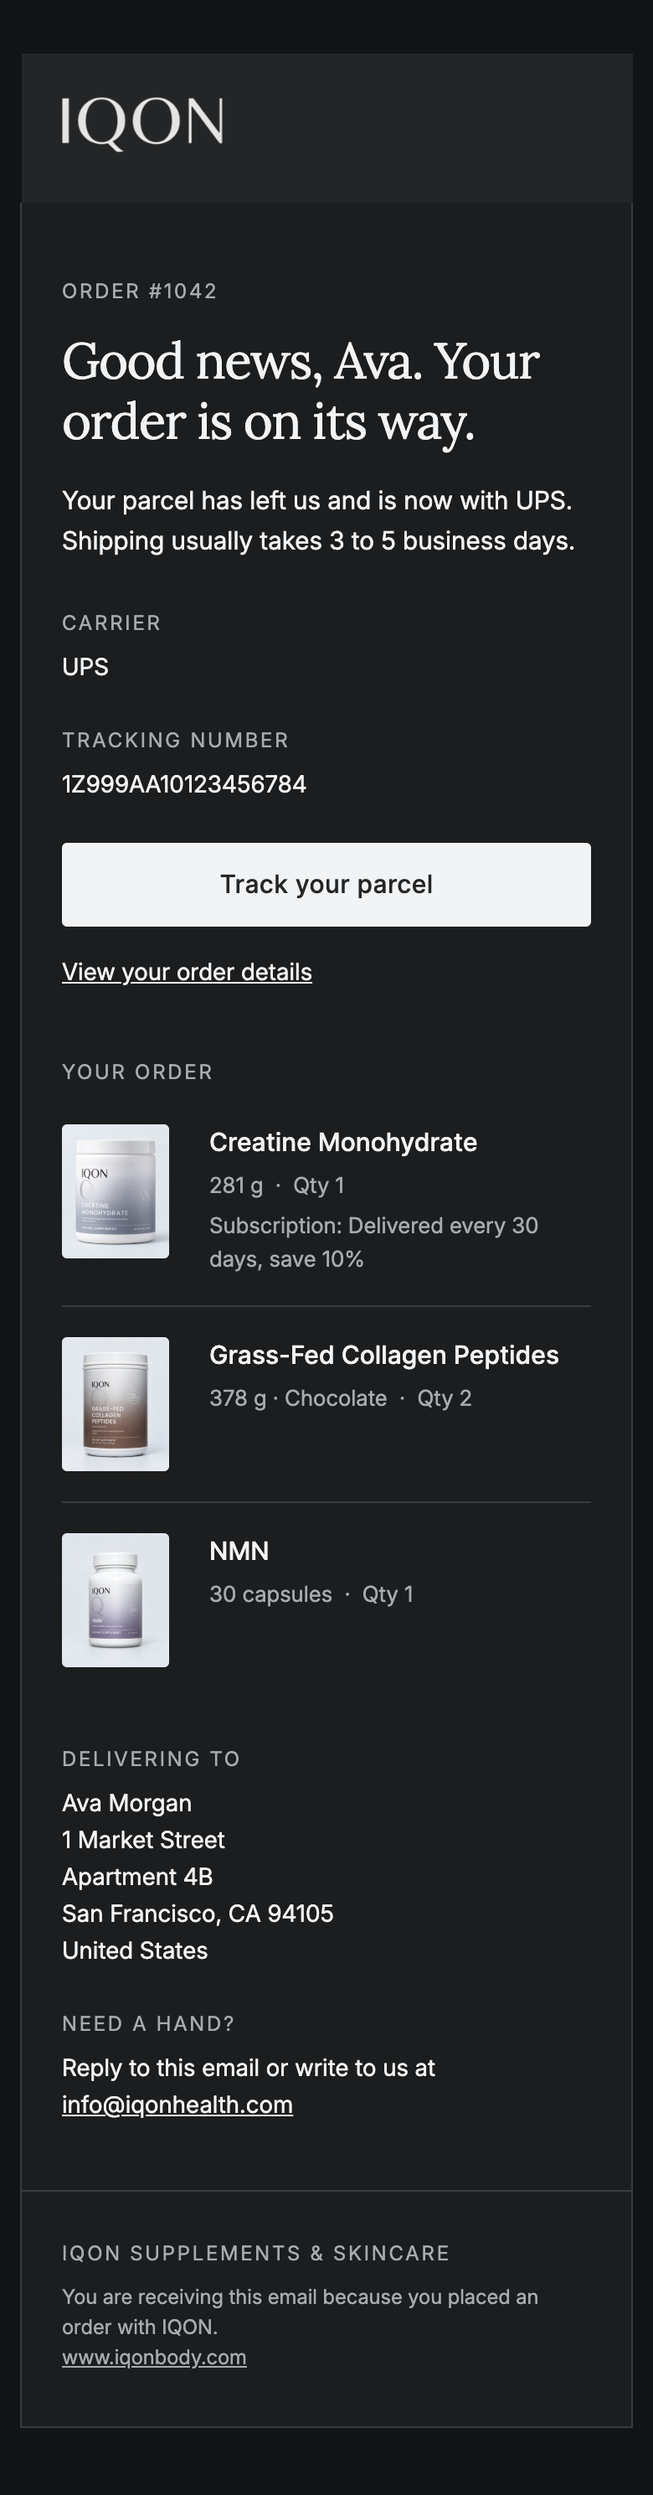
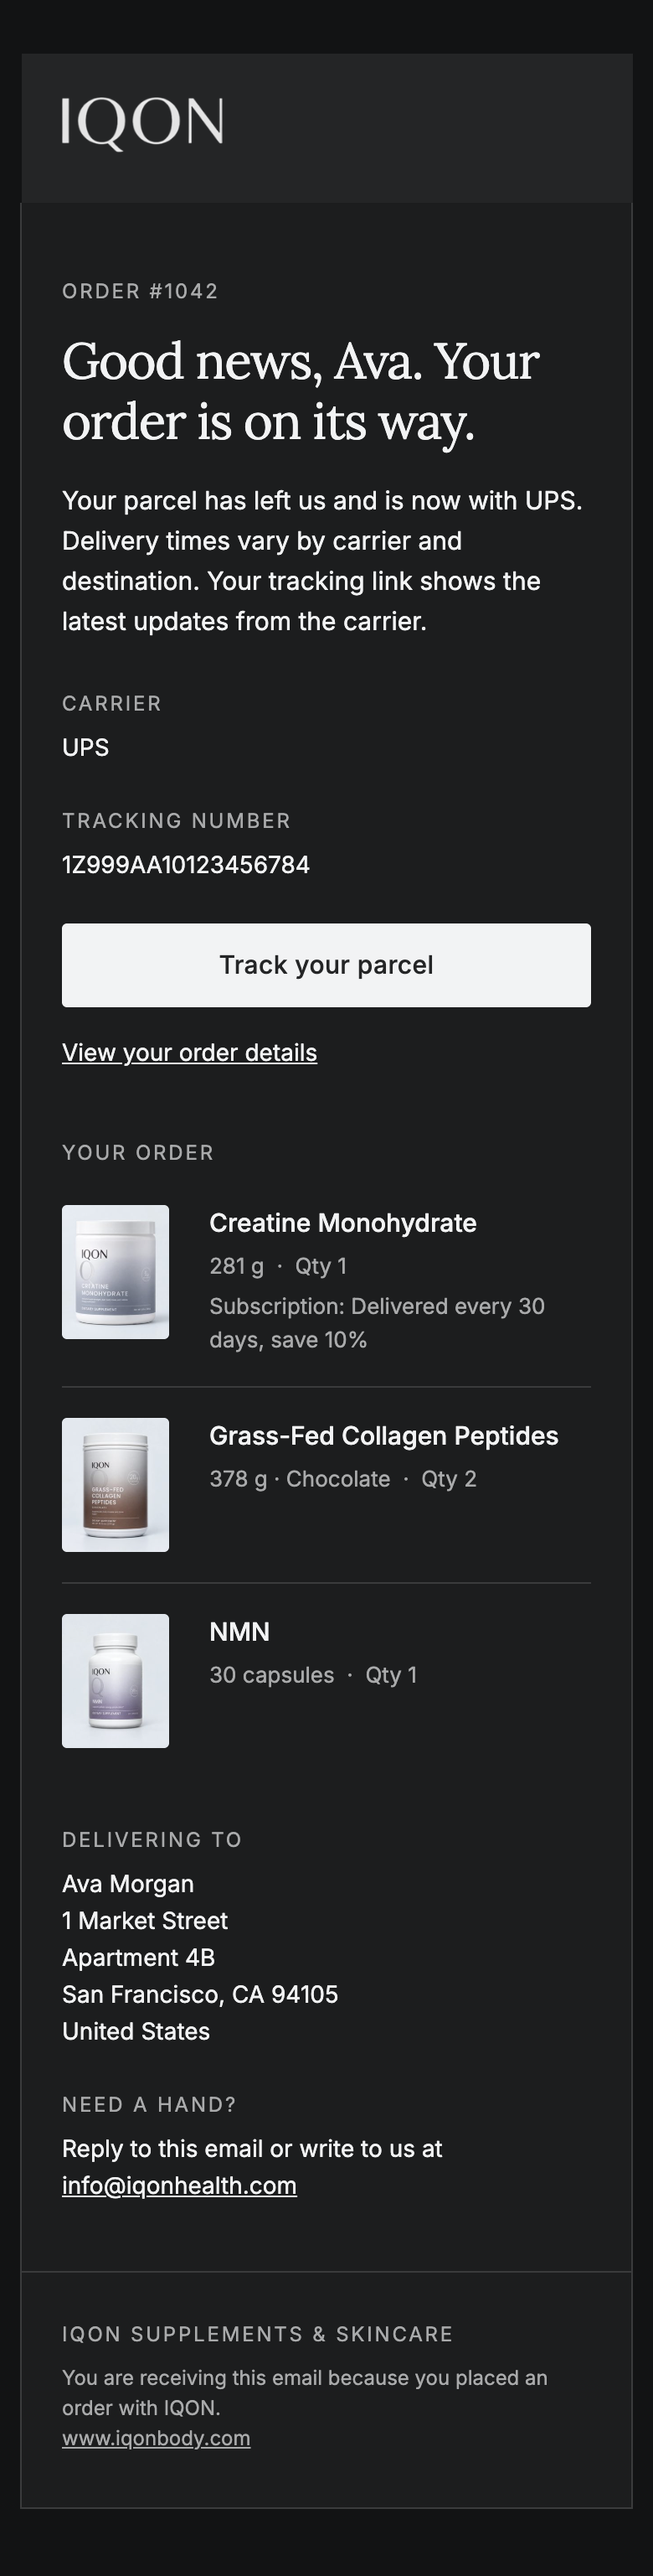
Shipping email: drop the unsupported 3 to 5 business day promise
The shipping confirmation email still told customers "Shipping usually takes 3 to 5 business
days." No fulfillment commitment supports it, and the storefront no longer says it. The intro
now says "Delivery times vary by carrier and destination." and, only when the email has a
tracking link, "Your tracking link shows the latest updates from the carrier." Title, carrier,
tracking number and URL preference, partial shipment copy and HTML/text parity are unchanged.

- Template tests: exact intro in HTML and text for full and partial shipments, a no-tracking
  case, and a guard against any delivery window or speed promise.
- Regenerated docs/emails shipping examples (HTML, text, PNG). Order confirmation unchanged.
- docs/order-emails.md and docs/shopify-connection.md describe the current copy. The dated
  pricing research keeps its hypothesis with a dated note.

diff --git a/tests/orders/templates.test.ts b/tests/orders/templates.test.ts
@@ -1,7 +1,7 @@
 import { test } from "node:test";
 import assert from "node:assert/strict";
 import { renderOrderConfirmationEmail } from "../../lib/orders/emails/order-confirmation";
-import { MORE_TO_FOLLOW_COPY, SHIPPING_TIME_COPY, renderShippingConfirmationEmail } from "../../lib/orders/emails/shipping-confirmation";
+import { DELIVERY_TIMING_COPY, MORE_TO_FOLLOW_COPY, TRACKING_UPDATES_COPY, renderShippingConfirmationEmail } from "../../lib/orders/emails/shipping-confirmation";
 import { brandConfig, maskEmail } from "../../lib/orders/emails/format";
 import { resolveLineItemImages, storefrontImageLookup } from "../../lib/orders/emails/images";
 import type { OrderSnapshot, ShipmentDetails } from "../../lib/orders/emails/types";
@@ -187,12 +187,17 @@ test("email markup is table based, 600px, Outlook and dark mode aware, and only 
   }
 });
 
+/** The storefront publishes no delivery window or speed, so neither may a shipping email. */
+function assertNoDeliveryPromise(email: { html: string; text: string }) {
+  for (const body of [visibleText(email.html), email.text]) assert.doesNotMatch(body, /\d+\s*(to|–|-)\s*\d+\s*(business\s*)?days|business days|within \d+|arrives? (by|in)|guaranteed/i);
+}
+
 test("shipping confirmation with tracking", async () => {
   const order = await snapshot();
   const email = renderShippingConfirmationEmail(shipment(order), BRAND);
   const visible = visibleText(email.html);
   assert.equal(email.subject, "Your IQON order #1042 is on its way");
-  for (const expected of ["Good news, Ava. Your order is on its way.", "UPS", "1Z999AA10123456784", "Track your parcel", SHIPPING_TIME_COPY, "Creatine Monohydrate", "Delivering to", "1 Market Street"])
+  for (const expected of ["Good news, Ava. Your order is on its way.", "UPS", "1Z999AA10123456784", "Track your parcel", DELIVERY_TIMING_COPY, TRACKING_UPDATES_COPY, "Creatine Monohydrate", "Delivering to", "1 Market Street"])
     assert.ok(visible.includes(expected), `missing ${expected}`);
   // Same preference as lib/orders/tracking.ts resolveTrackingUrl: universal tracker by number first.
   assert.ok(email.html.includes('href="https://parcelsapp.com/en/tracking/1Z999AA10123456784"'));
@@ -201,6 +206,10 @@ test("shipping confirmation with tracking", async () => {
   assert.ok(!visible.includes("$39.00"), "shipping email does not repeat prices");
   assert.ok(!visible.includes(MORE_TO_FOLLOW_COPY));
   assert.ok(email.text.includes("Tracking number: 1Z999AA10123456784"));
+  // HTML and plain text carry the same intro; no delivery window or speed promise in either.
+  const intro = "Your parcel has left us and is now with UPS. Delivery times vary by carrier and destination. Your tracking link shows the latest updates from the carrier.";
+  assert.ok(visible.includes(intro) && email.text.includes(intro));
+  assertNoDeliveryPromise(email);
   assertCustomerCopyClean(email.html, email.text);
 });
 
@@ -218,7 +227,22 @@ test("shipping confirmation, partial shipment, no carrier URL", async () => {
   assert.ok(visible.includes("In this shipment"));
   assert.ok(!visible.includes("NMN"));
   assert.ok(email.html.includes("https://parcelsapp.com/en/tracking/1Z999AA10123456784"));
+  const intro = "Your parcel has left us and is now on its way to you. Delivery times vary by carrier and destination. Your tracking link shows the latest updates from the carrier.";
+  assert.ok(visible.includes(intro) && email.text.includes(intro));
+  assert.ok(email.text.includes(MORE_TO_FOLLOW_COPY) && email.text.includes("IN THIS SHIPMENT"));
+  assert.ok(email.text.includes("Track your parcel: https://parcelsapp.com/en/tracking/1Z999AA10123456784"));
+  assertNoDeliveryPromise(email);
   assertCustomerCopyClean(email.html, email.text);
+});
+
+test("shipping confirmation without any tracking link points nowhere and promises no window", async () => {
+  const order = await snapshot();
+  const email = renderShippingConfirmationEmail(shipment(order, { trackingUrl: null, trackingNumber: null }), BRAND);
+  const visible = visibleText(email.html);
+  assert.ok(visible.includes(DELIVERY_TIMING_COPY) && email.text.includes(DELIVERY_TIMING_COPY));
+  assert.ok(!visible.includes(TRACKING_UPDATES_COPY) && !email.text.includes(TRACKING_UPDATES_COPY), "no reference to a missing tracking link");
+  assert.ok(!visible.includes("Track your parcel"));
+  assertNoDeliveryPromise(email);
 });
 
 test("no first name falls back to warm generic greetings", async () => {

diff --git a/docs/emails/shipping-confirmation-partial.html b/docs/emails/shipping-confirmation-partial.html
@@ -63,7 +63,7 @@ u + #body a{color:inherit;text-decoration:none;}
 <tr><td class="bg-card pad b-line" bgcolor="#ffffff" style="background:#ffffff;padding:44px 40px 40px 40px;border-left:1px solid #dbdcdd;border-right:1px solid #dbdcdd;">
 <p class="t-muted" style="margin:0 0 14px 0;font-family:Inter,'Helvetica Neue',Helvetica,Arial,sans-serif;font-size:12px;line-height:18px;letter-spacing:1.4px;text-transform:uppercase;color:#707172;">Order #1042</p>
 <h1 class="h1 t-ink" style="margin:0 0 18px 0;font-family:Lora,Georgia,'Times New Roman',serif;font-size:34px;line-height:40px;font-weight:400;letter-spacing:-0.8px;color:#242526;">Good news, Ava. Part of your order is on its way.</h1>
-<p class="t-ink" style="margin:0 0 16px 0;font-family:Inter,'Helvetica Neue',Helvetica,Arial,sans-serif;font-size:15px;line-height:24px;color:#242526;">Your parcel has left us and is now with USPS. Shipping usually takes 3 to 5 business days.</p>
+<p class="t-ink" style="margin:0 0 16px 0;font-family:Inter,'Helvetica Neue',Helvetica,Arial,sans-serif;font-size:15px;line-height:24px;color:#242526;">Your parcel has left us and is now with USPS. Delivery times vary by carrier and destination. Your tracking link shows the latest updates from the carrier.</p>
 <p class="t-muted" style="margin:0 0 0px 0;font-family:Inter,'Helvetica Neue',Helvetica,Arial,sans-serif;font-size:15px;line-height:24px;color:#707172;">This parcel holds part of your order. The rest will follow in a separate shipment, and we will email you again when it is on its way.</p>
 <table role="presentation" width="100%" cellpadding="0" cellspacing="0" border="0"><tr><td style="height:28px;line-height:28px;font-size:0;">&nbsp;</td></tr></table>
 <table role="presentation" width="100%" cellpadding="0" cellspacing="0" border="0"><tr>

diff --git a/lib/orders/emails/shipping-confirmation.ts b/lib/orders/emails/shipping-confirmation.ts
@@ -6,8 +6,11 @@ import {
 } from "./layout";
 import type { EmailBrandConfig, RenderedEmail, ShipmentDetails } from "./types";
 
-/** Matches the storefront help page ("Shipping takes 3 to 5 business days"). */
-export const SHIPPING_TIME_COPY = "Shipping usually takes 3 to 5 business days.";
+/** No delivery window is promised: none is an approved policy. Matches the storefront's shipping statement
+ * (lib/commerce-policy.ts SHIPPING_NOTE: delivery can vary by product and destination). */
+export const DELIVERY_TIMING_COPY = "Delivery times vary by carrier and destination.";
+/** Added only when the email has a tracking link to point to. */
+export const TRACKING_UPDATES_COPY = "Your tracking link shows the latest updates from the carrier.";
 export const MORE_TO_FOLLOW_COPY =
   "This parcel holds part of your order. The rest will follow in a separate shipment, and we will email you again when it is on its way.";
 
@@ -33,8 +36,8 @@ export function renderShippingConfirmationEmail(shipment: ShipmentDetails, brand
     : "Your parcel is on its way. Track it any time.";
   const what = partial ? "Part of your order is on its way." : "Your order is on its way.";
   const title = name ? `Good news, ${name}. ${what}` : `Good news. ${what}`;
-  const intro = `Your parcel has left us and is now${carrierPhrase || " on its way to you"}. ${SHIPPING_TIME_COPY}`;
   const trackingUrl = shipmentTrackingUrl(shipment);
+  const intro = `Your parcel has left us and is now${carrierPhrase || " on its way to you"}. ${DELIVERY_TIMING_COPY}${trackingUrl ? ` ${TRACKING_UPDATES_COPY}` : ""}`;
   const orderStatusUrl = safeHttpsUrl(shipment.orderStatusUrl);
 
   const trackingCells = twoColumns(

diff --git a/docs/emails/shipping-confirmation.html b/docs/emails/shipping-confirmation.html
@@ -63,7 +63,7 @@ u + #body a{color:inherit;text-decoration:none;}
 <tr><td class="bg-card pad b-line" bgcolor="#ffffff" style="background:#ffffff;padding:44px 40px 40px 40px;border-left:1px solid #dbdcdd;border-right:1px solid #dbdcdd;">
 <p class="t-muted" style="margin:0 0 14px 0;font-family:Inter,'Helvetica Neue',Helvetica,Arial,sans-serif;font-size:12px;line-height:18px;letter-spacing:1.4px;text-transform:uppercase;color:#707172;">Order #1042</p>
 <h1 class="h1 t-ink" style="margin:0 0 18px 0;font-family:Lora,Georgia,'Times New Roman',serif;font-size:34px;line-height:40px;font-weight:400;letter-spacing:-0.8px;color:#242526;">Good news, Ava. Your order is on its way.</h1>
-<p class="t-ink" style="margin:0 0 0px 0;font-family:Inter,'Helvetica Neue',Helvetica,Arial,sans-serif;font-size:15px;line-height:24px;color:#242526;">Your parcel has left us and is now with UPS. Shipping usually takes 3 to 5 business days.</p>
+<p class="t-ink" style="margin:0 0 0px 0;font-family:Inter,'Helvetica Neue',Helvetica,Arial,sans-serif;font-size:15px;line-height:24px;color:#242526;">Your parcel has left us and is now with UPS. Delivery times vary by carrier and destination. Your tracking link shows the latest updates from the carrier.</p>
 
 <table role="presentation" width="100%" cellpadding="0" cellspacing="0" border="0"><tr><td style="height:28px;line-height:28px;font-size:0;">&nbsp;</td></tr></table>
 <table role="presentation" width="100%" cellpadding="0" cellspacing="0" border="0"><tr>

diff --git a/docs/order-emails.md b/docs/order-emails.md
@@ -90,7 +90,7 @@ When a renewal is recognised, the `order_confirmation` row is written as `skippe
 
 * Brand: "IQON", palette and type from `app/globals.css` (ink #242526, paper #fbfcfd, Lora headings, Inter body). Header wordmark is `public/images/email/iqon-wordmark-ink.png` (white on ink, opaque, so it survives dark mode inversion).
 * No dash characters in customer copy, no health or medical claims. Enforced by `tests/orders/templates.test.ts`.
-* "Shipping usually takes 3 to 5 business days" matches the storefront help page ("Shipping takes 3–5 business days").
+* No delivery window is promised (none is an approved policy). The shipping email says "Delivery times vary by carrier and destination." and, only when a tracking link exists, "Your tracking link shows the latest updates from the carrier." This matches the storefront help page and product pages, where checkout shows the available shipping options. Add a window only after the owner approves a fulfillment commitment; `tests/orders/templates.test.ts` rejects one until then.
 * Partial shipments list only that fulfilment's items and add: "This parcel holds part of your order. The rest will follow in a separate shipment…".
 * Tracking button reuses `resolveTrackingUrl` from `lib/orders/tracking.ts`, so the email and the storefront agree: the universal tracker keyed on the number (parcelsapp; carrier pages such as USPS stall on anti bot interstitials), otherwise Shopify's `tracking_url` when it is https.
 * Totals: Subtotal is the **pre discount** line sum at current quantities (Shopify's `subtotal_price` is already after discounts, so it is not used), Discount is `current_total_discounts` (line, order and shipping discounts), Shipping is `total_shipping_price_set` (before shipping discounts), Tax is `current_total_tax`, Total is `current_total_price`. Subtotal minus discounts plus shipping plus tax (unless `taxes_included`) equals the total; tested in `tests/orders/templates.test.ts`. If a real order does not add up (for example a tip or duties, which the email does not itemise), the handler logs `totals_mismatch` with the difference and still sends.

diff --git a/docs/shopify-connection.md b/docs/shopify-connection.md
@@ -43,7 +43,7 @@ Enter the secret directly in Vercel. Do not paste it into chat, source code, scr
 
 4. Prices are approved. Confirm final labels/formulas, supplier costs and actual fulfillment inventory, and assign the correct inventory/fulfillment locations and shipping weights. No guessed stock, fulfillment service, product cost or shipping weight was imported. Finalize the three skincare formulas before publication. Keep the manifest in sync with approved price changes.
 5. Configure payment processing and payout details in Shopify. The account owner must complete any required business/bank verification. Confirm the actual merchant billing country and rates before relying on the US fee examples in the pricing report.
-6. Configure US shipping zones/rates, fulfillment and tax settings. The suggested $75 free-shipping threshold and $5.95 standard rate are cost-dependent proposals, not active settings. Match delivery estimates to the website's existing 3–5 business-day copy.
+6. Configure US shipping zones/rates, fulfillment and tax settings. The suggested $75 free-shipping threshold and $5.95 standard rate are cost-dependent proposals, not active settings. The website and shipping email publish no delivery window (checkout shows the calculated options); add one only after the owner approves a fulfillment commitment.
 7. Set reviewed products to **Active**, publish them to the **IQON Headless storefront**, and add actual inventory. Keep the launch-review tags until the merchant has completed review. Do not activate draft concepts merely to make a test pass.
 8. Run the checks below, then complete a checkout using the payment provider's test mode. Verify shipping, tax, discounts, confirmation emails and the resulting order. Turn off test mode before accepting real payments. No test or real order has been submitted in this work.
 

diff --git a/docs/pricing-research-2026-09-10.md b/docs/pricing-research-2026-09-10.md
@@ -90,7 +90,7 @@ Suggested bundles, subject to landed-cost review:
 
 Do not stack the full subscription discount on these bundle prices by default. Bundle recommendations are merchandising proposals, not a claim that combined products have been tested together. Start with ordinary prices, not permanent “sales” or invented crossed-out reference prices.
 
-**Shipping hypothesis:** free standard US shipping from **$75 after discounts**, with **$5.95 below $75**. This is a proposal to check against fulfillment quotes, not a configured rate or a promise that it is profitable. The website currently says 3–5 business days; obtain a fulfillment commitment that supports that statement before launch. Confirm whether the timeframe includes processing.
+**Shipping hypothesis:** free standard US shipping from **$75 after discounts**, with **$5.95 below $75**. This is a proposal to check against fulfillment quotes, not a configured rate or a promise that it is profitable. The website currently says 3–5 business days; obtain a fulfillment commitment that supports that statement before launch. Confirm whether the timeframe includes processing. *(Update 21 October 2026: no fulfillment commitment was found, so the storefront help page and shipping email no longer state a delivery window; checkout shows the calculated options. This research note is otherwise unchanged.)*
 
 ## Margin decision before publishing
 
